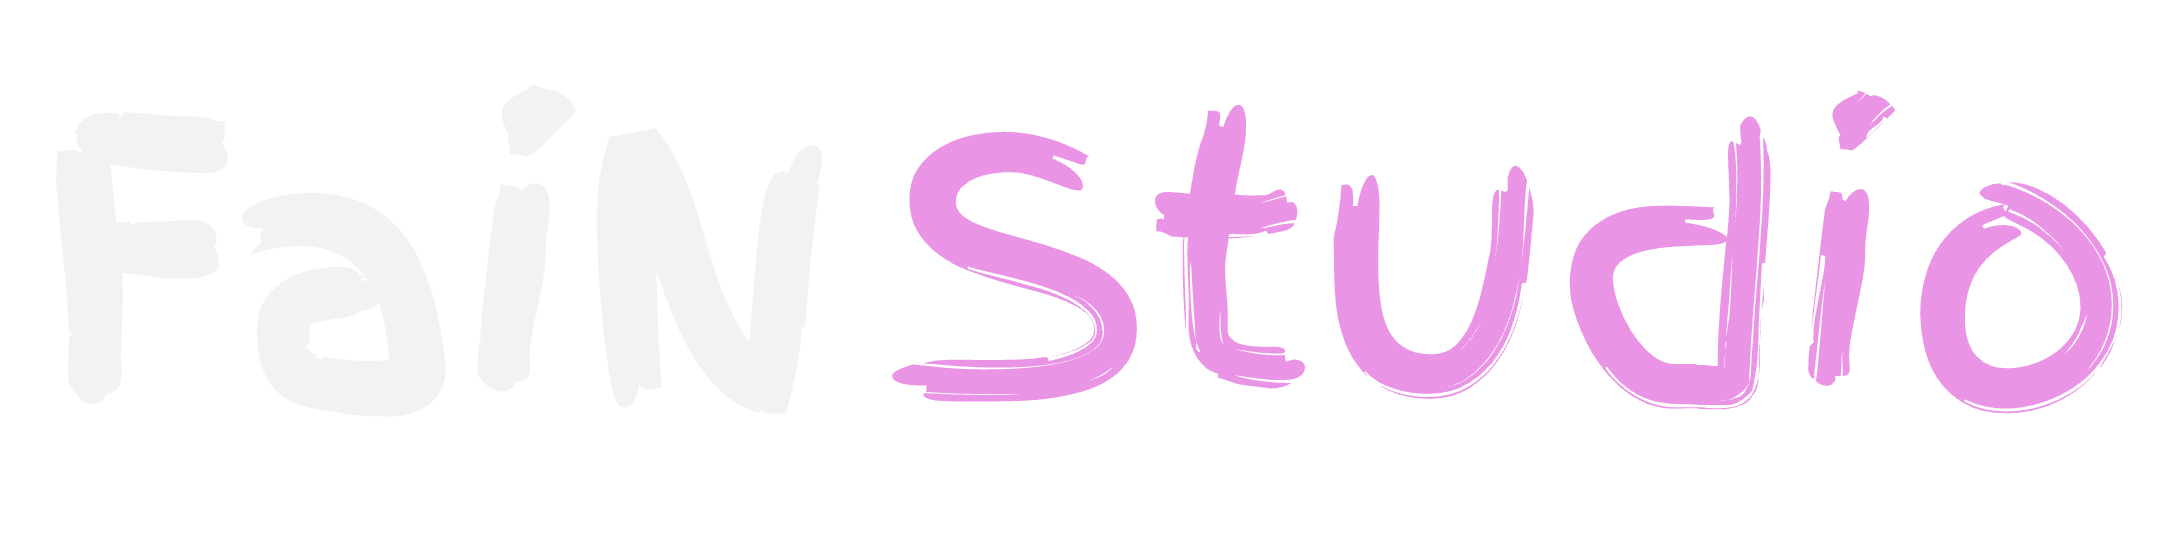
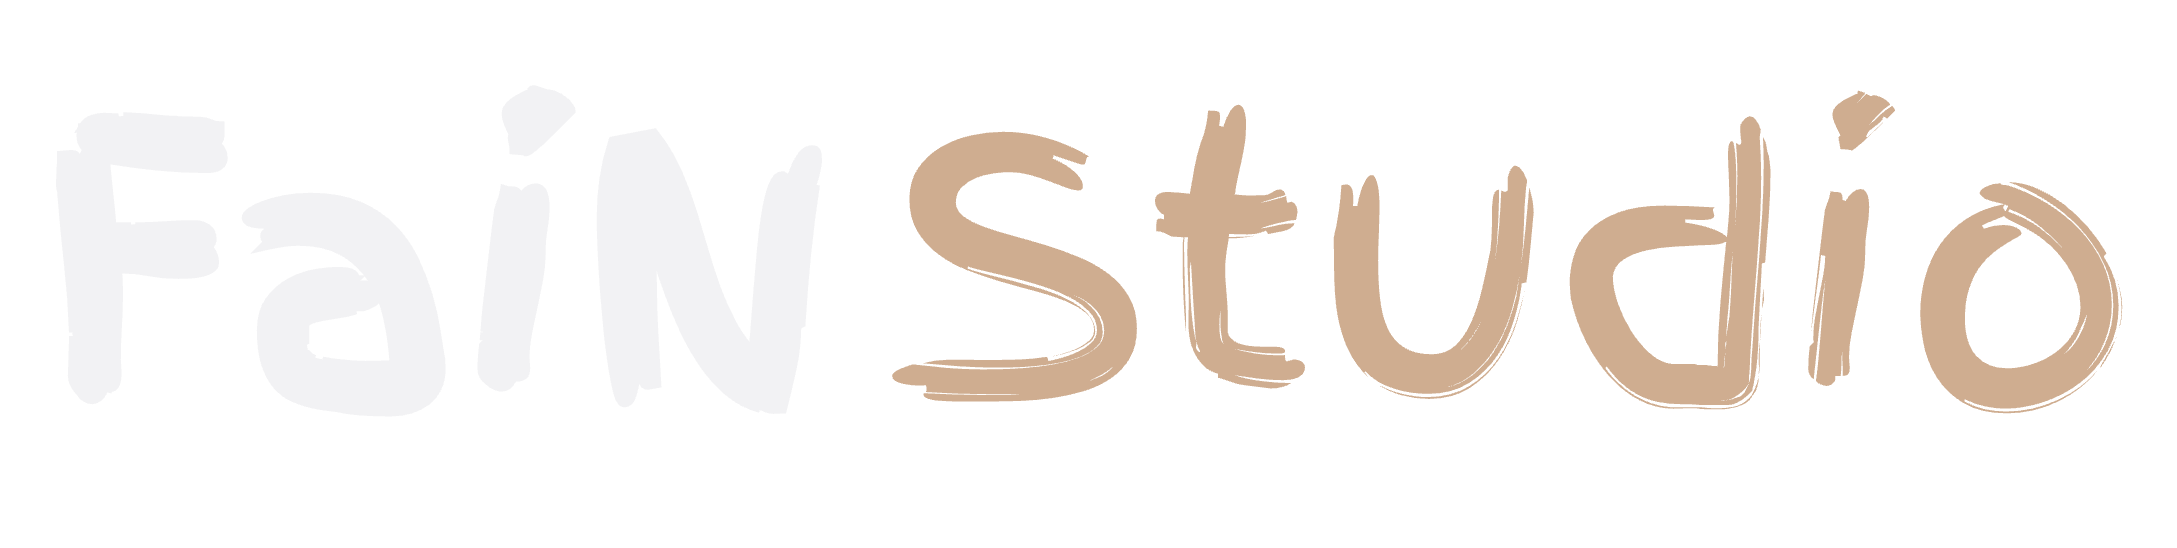
Colours: primary #cfad90, secondary #e7d5cc (Color studio)

Changed region(s): [[0.4061, 0.1861, 0.9995, 0.7755], [0.8434, 0.1551, 0.8746, 0.2792]]

diff --git a/app/globals.css b/app/globals.css
@@ -66,9 +66,9 @@
  * Když se mluví o „primární“, je to ta růžová. Color studio mění primární, sekundární a pozadí.
  */
 :root {
-  --secondary-h: 321.2;
-  --secondary-c: 0.0442;
-  --secondary-l-adj: 0.0924; /* posun světlosti od základních 0,78 */
+  --secondary-h: 48.4;
+  --secondary-c: 0.0235;
+  --secondary-l-adj: 0.1052; /* posun světlosti od základních 0,78 */
 
   --secondary: oklch(calc(0.78 + var(--secondary-l-adj)) var(--secondary-c) var(--secondary-h));
   --secondary-strong: oklch(calc(0.7 + var(--secondary-l-adj)) var(--secondary-c) var(--secondary-h));
@@ -79,9 +79,9 @@
   --on-accent: oklch(0.2 0.02 var(--secondary-h));
 
   /* Primární barva (růžová): odstín, sytost, posun světlosti. Color studio je přepisuje. */
-  --primary-h: 328.9;
-  --primary-c: 0.1453;
-  --primary-l-adj: 0.0003;
+  --primary-h: 62.3;
+  --primary-c: 0.0562;
+  --primary-l-adj: -0.0097;
   --primary: oklch(calc(0.78 + var(--primary-l-adj)) var(--primary-c) var(--primary-h));
   --primary-deep: oklch(calc(0.6 + var(--primary-l-adj)) calc(var(--primary-c) * 1.15) var(--primary-h));
   --primary-glow: oklch(calc(0.78 + var(--primary-l-adj)) var(--primary-c) var(--primary-h) / 0.5);
@@ -94,9 +94,9 @@
 
   /* Tmavé téma (výchozí) */
   /* Pozadí: světlost / sytost / odstín jedné barvy (Color studio), ostatní neutrály jsou její odvozeniny */
-  --bgd-l: 0.1893;
-  --bgd-c: 0.0118;
-  --bgd-h: 319.5;
+  --bgd-l: 0.194;
+  --bgd-c: 0.0063;
+  --bgd-h: 56;
   --bgl-l: 0.9194;
   --bgl-c: 0.0395;
   --bgl-h: 280.9;

diff --git a/components/ColorStudio.tsx b/components/ColorStudio.tsx
@@ -20,7 +20,7 @@ const KEY = 'brand-v7';
 const VARS_KEY = 'brand-vars-v2'; // všechny spočítané CSS proměnné; layout.tsx je obnoví před prvním vykreslením
 // p = primární (růžová), s = sekundární (šedá), bd / bl = pozadí tmavého / světlého tématu
 type Brand = { p: string; s: string; bd: string; bl: string };
-const DEF: Brand = { p: '#ea94e5', s: '#e3cce7', bd: '#161217', bl: '#dfe2ff' };
+const DEF: Brand = { p: '#cfad90', s: '#e7d5cc', bd: '#171412', bl: '#dfe2ff' };
 const SECONDARY_HUE = 198.7; // šedá nemá odstín, neutrály si drží tenhle
 
 const round = (n: number, d = 3) => +n.toFixed(d);
